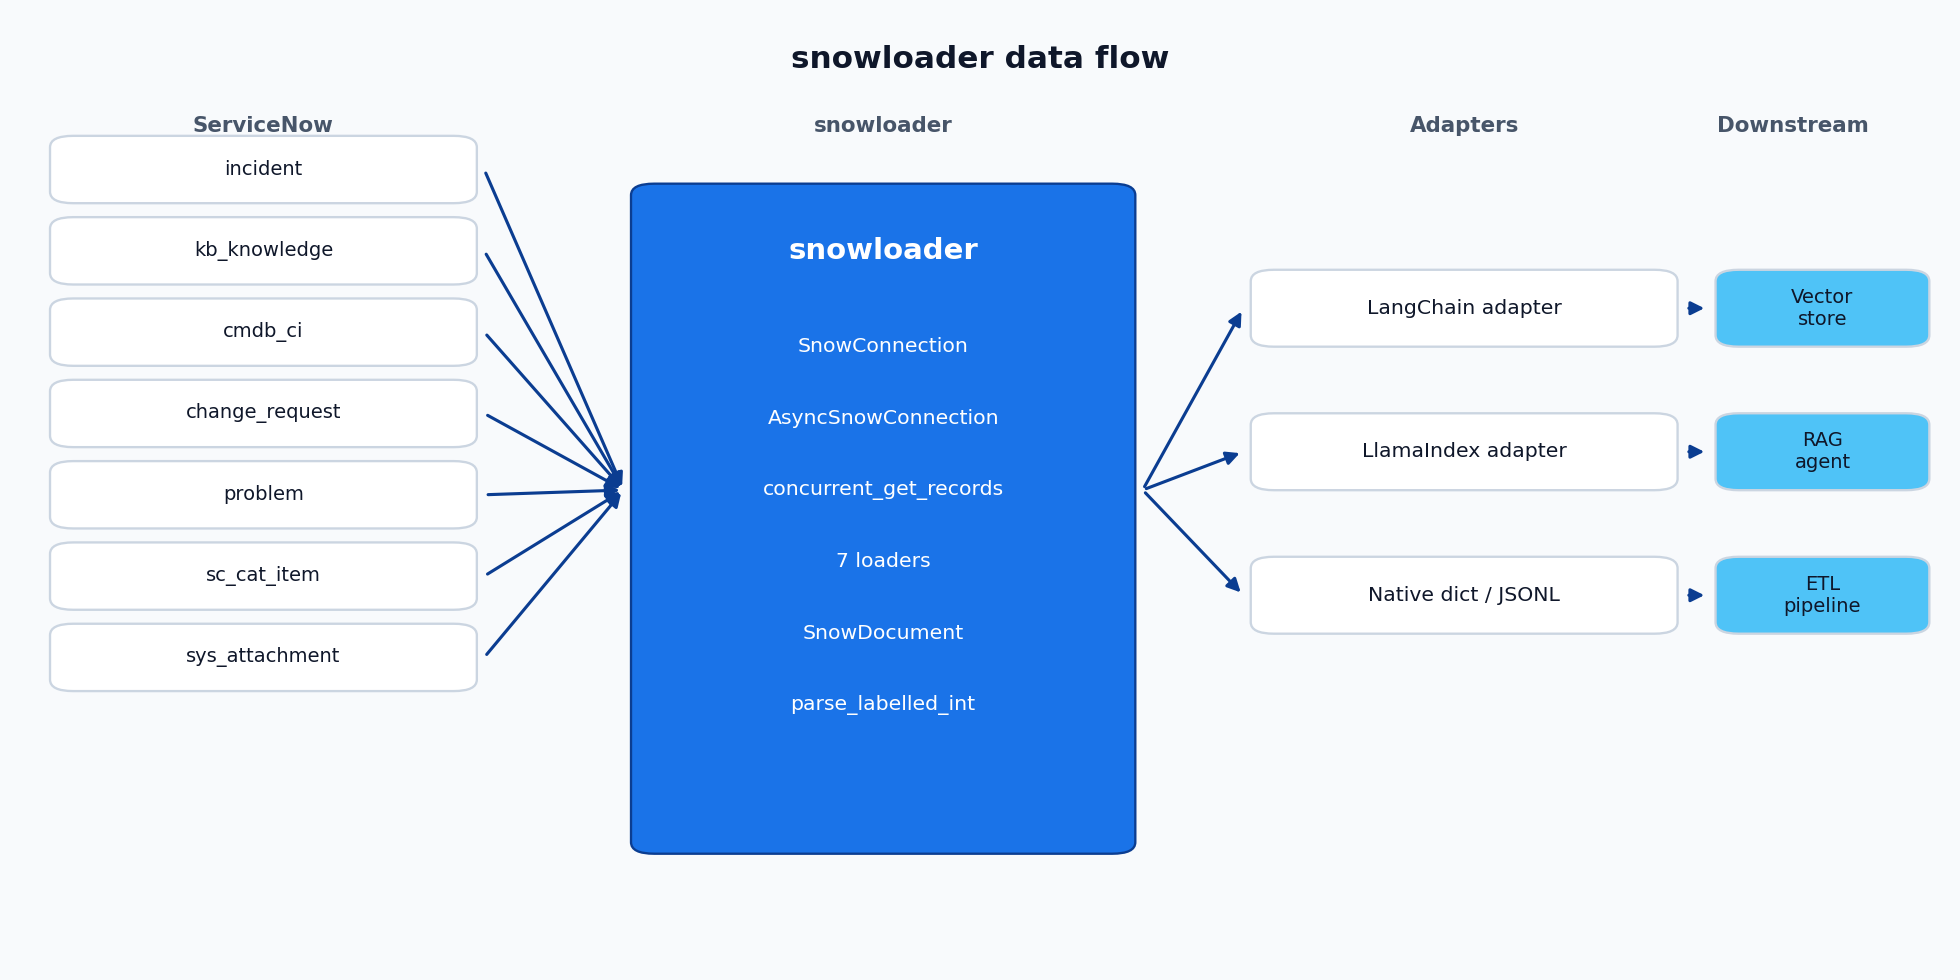
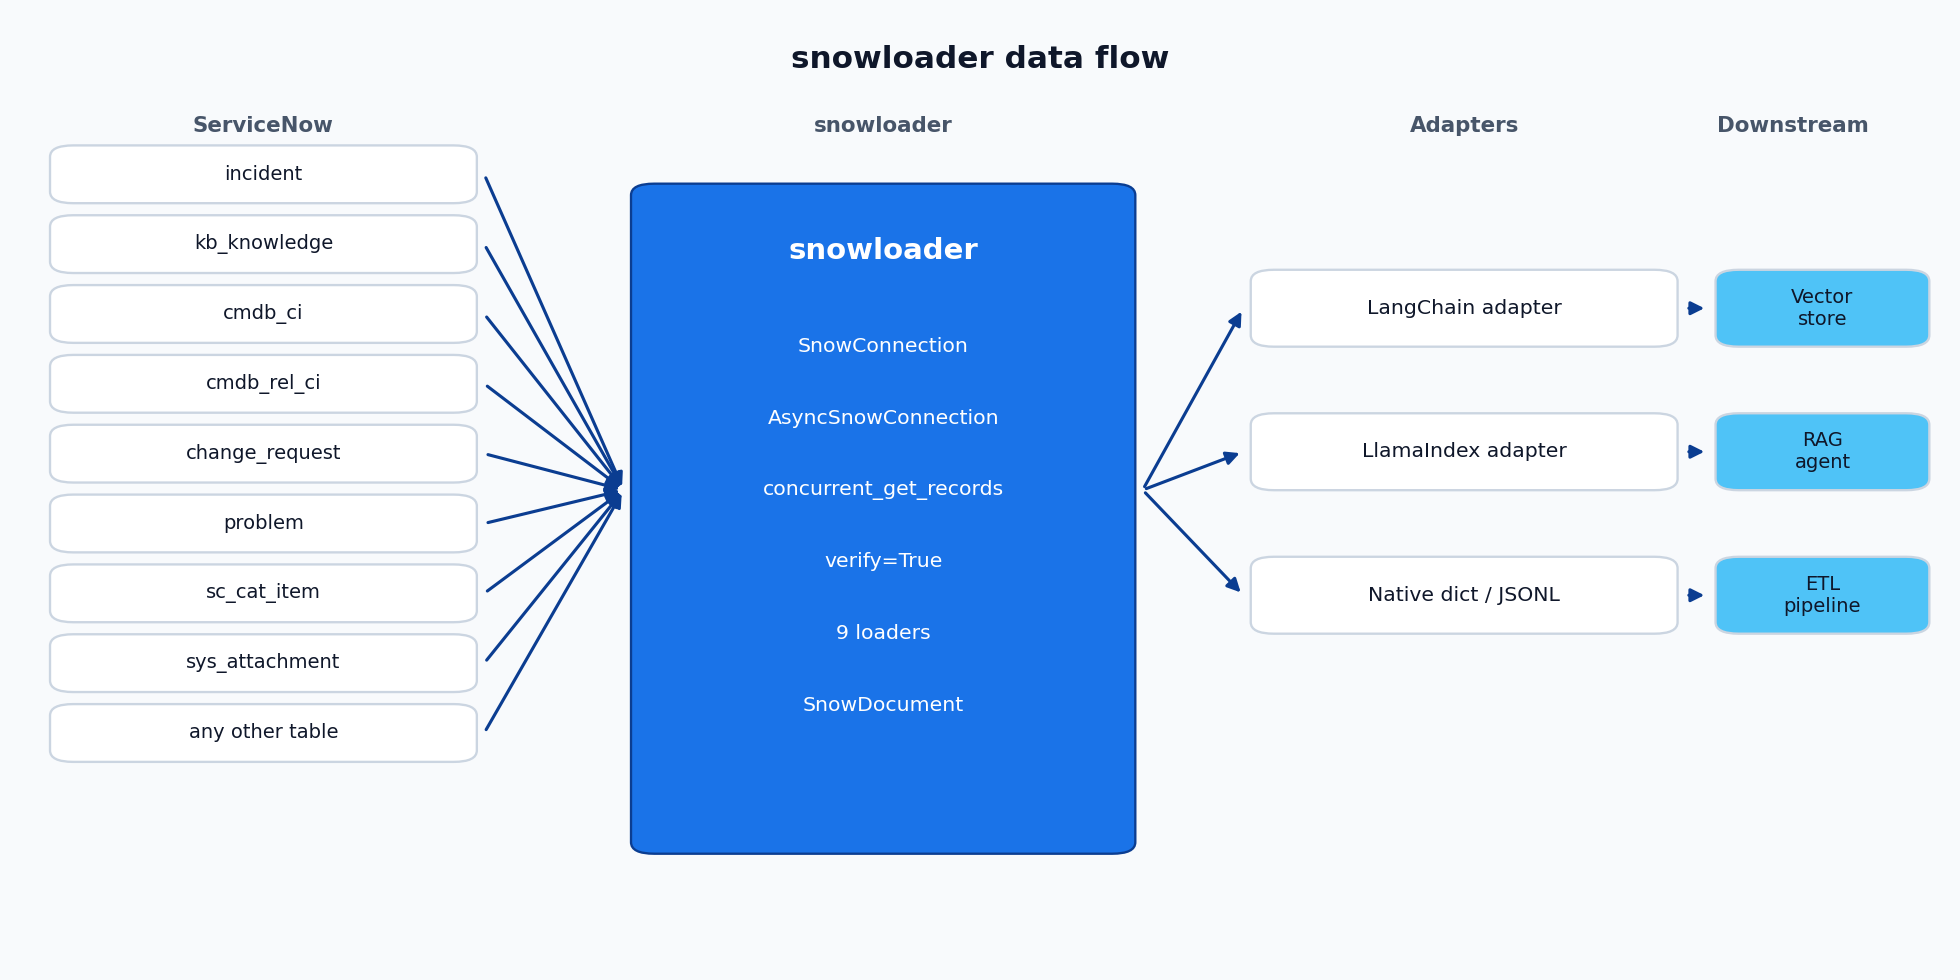
rebuild the diagrams around 0.3.0 and drop the marketing words
The throughput chart was showing relative bars I had estimated. It now shows
the measured seconds from scripts/benchmark_v030.py: 46.4s sequential down to
6.4s at 16 workers, and 8.1s at 32, so the turnover after 16 is visible rather
than asserted. The architecture diagram still said seven loaders and had no
cmdb_rel_ci on it.

New diagram for the pagination bug, because it is the whole point of this
release and it is easier to see than to read. Two panels, the same eight rows
tied on one timestamp, paged four at a time. On the left the page boundary
falls inside the tie so A and B come back twice and G and H never arrive, with
the returned count still reconciling. On the right the chain ends in sys_id
and every row arrives once.

Put that diagram at the top of the README, where somebody deciding whether to
upgrade will actually see it, and again on the verification docs page.

Also took out wording that reads like a sales page rather than a description:
TL;DR, comprehensive, robustness, most powerful. Replaced each with what it
actually means.

diff --git a/scripts/build_assets.py b/scripts/build_assets.py
@@ -122,15 +122,17 @@ def build_architecture() -> None:
         "incident",
         "kb_knowledge",
         "cmdb_ci",
+        "cmdb_rel_ci",
         "change_request",
         "problem",
         "sc_cat_item",
         "sys_attachment",
+        "any other table",
     ]
     col1_x = 2
     col1_w = 22
-    table_h = 7.0
-    table_gap = 1.5
+    table_h = 6.0
+    table_gap = 1.3
     col1_top = 80
     for i, label in enumerate(table_labels):
         y = col1_top - i * (table_h + table_gap)
@@ -167,9 +169,9 @@ def build_architecture() -> None:
         "SnowConnection",
         "AsyncSnowConnection",
         "concurrent_get_records",
-        "7 loaders",
+        "verify=True",
+        "9 loaders",
         "SnowDocument",
-        "parse_labelled_int",
     ]
     line_top = col2_y + col2_h - 17
     line_step = 7.5
@@ -228,51 +230,63 @@ def build_architecture() -> None:
 
 
 def build_performance() -> None:
-    fig, ax = plt.subplots(figsize=(10, 4.4), dpi=140)
+    """Threaded worker scaling, from scripts/benchmark_v030.py on a live instance."""
+    fig, ax = plt.subplots(figsize=(10, 4.6), dpi=140)
     fig.patch.set_facecolor(COLOR_BG)
     ax.set_facecolor(COLOR_BG)
 
-    paths = ["Sequential\nget_records", "Async\naget_records", "Threaded\nconcurrent_get_records"]
-    # Relative throughput, no absolute numbers
-    relative = [1.0, 6.0, 7.0]
-    colors = [COLOR_MUTED, COLOR_ACCENT, COLOR_PRIMARY]
+    labels = ["sequential", "4 workers", "8 workers", "16 workers", "32 workers"]
+    seconds = [46.4, 14.6, 8.2, 6.4, 8.1]
+    speedup = [46.4 / s for s in seconds]
+    colors = [COLOR_MUTED, COLOR_ACCENT, COLOR_ACCENT, COLOR_PRIMARY, COLOR_ACCENT]
 
-    bars = ax.barh(paths, relative, color=colors, edgecolor=COLOR_BORDER, linewidth=0.8)
-    for bar, value in zip(bars, relative):
+    bars = ax.bar(labels, seconds, color=colors, edgecolor=COLOR_BORDER, linewidth=0.8, width=0.62)
+    for bar, sec, mult in zip(bars, seconds, speedup, strict=True):
         ax.text(
-            bar.get_width() + 0.12,
-            bar.get_y() + bar.get_height() / 2,
-            f"{value:g}x",
-            va="center",
-            ha="left",
-            fontsize=12,
+            bar.get_x() + bar.get_width() / 2,
+            bar.get_height() + 1.2,
+            f"{sec}s\n{mult:.1f}x",
+            ha="center",
+            va="bottom",
+            fontsize=10.5,
             color=COLOR_TEXT,
             family=FONT_FAMILY,
             weight="bold",
         )
 
+    ax.annotate(
+        "peak, and the default",
+        xy=(3, 6.4),
+        xytext=(2.55, 30),
+        ha="center",
+        fontsize=10,
+        color=COLOR_DEEP,
+        family=FONT_FAMILY,
+        weight="bold",
+        arrowprops={"arrowstyle": "->", "color": COLOR_DEEP, "linewidth": 1.4},
+    )
+
     ax.set_title(
-        "Relative throughput on a typical instance",
+        "Threaded sweep of 2,919 records, measured on a developer instance",
         fontsize=13,
         color=COLOR_TEXT,
         family=FONT_FAMILY,
         weight="bold",
         pad=14,
     )
-    ax.set_xlabel("Records per second relative to sequential baseline", color=COLOR_MUTED, family=FONT_FAMILY, fontsize=10)
-    ax.tick_params(colors=COLOR_MUTED, labelsize=10)
+    ax.set_ylabel("seconds, lower is better", color=COLOR_MUTED, family=FONT_FAMILY, fontsize=10)
+    ax.tick_params(colors=COLOR_MUTED, labelsize=10.5)
     for spine_name in ("top", "right"):
         ax.spines[spine_name].set_visible(False)
     for spine_name in ("left", "bottom"):
         ax.spines[spine_name].set_color(COLOR_BORDER)
-    ax.set_xlim(0, max(relative) + 1.4)
-    ax.invert_yaxis()
-    ax.grid(axis="x", color=COLOR_BORDER, linestyle="--", alpha=0.4)
+    ax.set_ylim(0, 56)
+    ax.grid(axis="y", color=COLOR_BORDER, linestyle="--", alpha=0.4)
 
     ax.text(
         0.99,
-        -0.22,
-        "Exact ratios depend on instance size, network distance, page size, and query cost.",
+        -0.20,
+        "Throughput turns over after 16 workers. Reproduce with scripts/benchmark_v030.py.",
         transform=ax.transAxes,
         ha="right",
         va="top",
@@ -284,6 +298,80 @@ def build_performance() -> None:
 
     fig.tight_layout(pad=1.2)
     fig.savefig(OUT_DIR / "performance.png", facecolor=fig.get_facecolor(), bbox_inches="tight")
+    plt.close(fig)
+
+
+def build_pagination() -> None:
+    """Why offset paging over a non-unique sort column loses rows, and the fix."""
+    fig, axes = plt.subplots(1, 2, figsize=(12, 5.2), dpi=140)
+    fig.patch.set_facecolor(COLOR_BG)
+
+    # Eight rows that all share one sys_created_on value, paged 4 at a time.
+    # Left: the server is free to reorder inside the tie, so page 2 re-serves
+    # rows page 1 already gave us and never serves C and D.
+    before_page1 = ["A", "B", "C", "D"]
+    before_page2 = ["A", "B", "E", "F"]
+    after_page1 = ["A", "B", "C", "D"]
+    after_page2 = ["E", "F", "G", "H"]
+
+    panels = [
+        (axes[0], "Before 0.3.0", "ORDERBYsys_created_on", before_page1, before_page2,
+         {"A", "B"}, "G and H never arrive. A and B arrive twice."),
+        (axes[1], "0.3.0", "ORDERBYsys_created_on^ORDERBYsys_id", after_page1, after_page2,
+         set(), "Every row exactly once."),
+    ]
+
+    for ax, title, query, page1, page2, dup, caption in panels:
+        ax.set_facecolor(COLOR_BG)
+        ax.set_xlim(0, 10)
+        ax.set_ylim(0, 10)
+        ax.axis("off")
+
+        ax.text(5, 9.6, title, ha="center", va="center", fontsize=14,
+                color=COLOR_TEXT, family=FONT_FAMILY, weight="bold")
+        ax.text(5, 8.85, query, ha="center", va="center", fontsize=9.5,
+                color=COLOR_MUTED, family="DejaVu Sans Mono")
+
+        for row_i, (label, rows) in enumerate((("page 1", page1), ("page 2", page2))):
+            y = 7.2 - row_i * 3.1
+            ax.text(0.4, y + 0.92, label, ha="left", va="center", fontsize=10.5,
+                    color=COLOR_MUTED, family=FONT_FAMILY, weight="bold")
+            for col_i, cell in enumerate(rows):
+                x = 0.4 + col_i * 2.25
+                is_dup = row_i == 1 and cell in dup
+                face = "#fde2e1" if is_dup else COLOR_CARD
+                edge = "#d93025" if is_dup else COLOR_BORDER
+                ax.add_patch(FancyBboxPatch(
+                    (x, y - 0.55), 2.0, 1.05,
+                    boxstyle="round,pad=0.02,rounding_size=0.12",
+                    facecolor=face, edgecolor=edge, linewidth=1.6 if is_dup else 1.0))
+                ax.text(x + 1.0, y - 0.02, cell, ha="center", va="center", fontsize=13,
+                        color="#d93025" if is_dup else COLOR_TEXT,
+                        family=FONT_FAMILY, weight="bold")
+                if is_dup:
+                    ax.text(x + 1.0, y - 0.95, "duplicate", ha="center", va="center",
+                            fontsize=8.5, color="#d93025", family=FONT_FAMILY, weight="bold")
+
+        ok = not dup
+        ax.add_patch(FancyBboxPatch(
+            (0.4, 0.55), 9.0, 1.5,
+            boxstyle="round,pad=0.02,rounding_size=0.14",
+            facecolor="#e6f4ea" if ok else "#fdeceb",
+            edgecolor=COLOR_SUCCESS if ok else "#d93025", linewidth=1.4))
+        ax.text(4.9, 1.55, caption, ha="center", va="center", fontsize=10.5,
+                color=COLOR_SUCCESS if ok else "#d93025",
+                family=FONT_FAMILY, weight="bold")
+        ax.text(4.9, 0.98,
+                "returned 2919, distinct 2919" if ok else
+                "returned 2919, distinct 2915, and the count still reconciles",
+                ha="center", va="center", fontsize=9.5, color=COLOR_MUTED,
+                family="DejaVu Sans Mono")
+
+    fig.suptitle(
+        "Offset pagination is only safe over a unique sort key",
+        fontsize=15, color=COLOR_TEXT, family=FONT_FAMILY, weight="bold", y=0.99)
+    fig.tight_layout(rect=(0, 0, 1, 0.95))
+    fig.savefig(OUT_DIR / "pagination.png", facecolor=fig.get_facecolor(), bbox_inches="tight")
     plt.close(fig)
 
 
@@ -350,6 +438,7 @@ def build_decision() -> None:
 def main() -> None:
     build_architecture()
     build_performance()
+    build_pagination()
     build_decision()
     print("Wrote:")
     for name in ("architecture.png", "performance.png", "decision.png"):

diff --git a/README.md b/README.md
@@ -45,7 +45,7 @@
 
 ---
 
-## TL;DR
+## In three lines
 
 ```python
 from snowloader import SnowConnection, IncidentLoader
@@ -55,7 +55,27 @@ with SnowConnection(instance_url="https://yourcompany.service-now.com",
     docs = IncidentLoader(connection=conn, query="active=true").load()
 ```
 
-Three lines from a ServiceNow instance to a list of documents your vector store understands. Same loader objects work with LangChain, LlamaIndex, or anything else that accepts a list of dicts.
+Three lines from a ServiceNow instance to a list of documents your vector store understands. The same loader objects work with LangChain, LlamaIndex, or anything else that accepts a list of dicts.
+
+---
+
+## What 0.3.0 fixes
+
+<p align="center">
+  <img src="https://raw.githubusercontent.com/ronidas39/snowloader/main/docs/_static/pagination.png" alt="Offset pagination over a non-unique sort column returns some rows twice and skips others" width="960">
+</p>
+
+ServiceNow does not guarantee a stable row order inside a group of rows that tie on the sort column. Every release before 0.3.0 paged over `sys_created_on`, which is not unique, so a page boundary landing inside a tied group returned some rows twice and skipped others.
+
+The returned count still matched, so nothing reported a problem. The loss was identical on every run, so re-running never revealed it. Measured on a developer instance where `cmdb_ci` holds 2,919 rows across only 818 distinct timestamps, three consecutive sweeps each returned 2,919 rows and only 2,915 of them were distinct.
+
+Every ORDERBY chain now ends in `sys_id`, and you can ask a sweep to prove it was complete:
+
+```python
+records = list(conn.get_records("cmdb_ci", verify=True))   # raises if anything is missing
+```
+
+Details in [the upgrade notes](#upgrading-to-030).
 
 ---
 
@@ -227,11 +247,15 @@ doc.metadata["priority_value"]           # '5'
   <img src="https://raw.githubusercontent.com/ronidas39/snowloader/main/docs/_static/decision.png" alt="API decision tree" width="850">
 </p>
 
-Three concurrency models, three jobs:
+Three concurrency models, three jobs. The numbers below came out of a run against a developer instance, not an estimate. Reproduce them on your own instance with `scripts/benchmark_v030.py`.
 
 <p align="center">
-  <img src="https://raw.githubusercontent.com/ronidas39/snowloader/main/docs/_static/performance.png" alt="Relative throughput" width="850">
+  <img src="https://raw.githubusercontent.com/ronidas39/snowloader/main/docs/_static/performance.png" alt="Threaded sweep timings by worker count" width="900">
 </p>
+
+Two things worth taking from that chart. Throughput peaks at 16 workers, which is why 16 is the default, and 32 workers came out slower than 16 rather than marginally faster. Page size in the low hundreds measured best on this path; raising it does not buy speed here, because throughput is bounded by how many pages are in flight rather than by request count.
+
+The async path pulls the other way and wants larger pages, which is why its default is 500. Do not carry a page size from one path to the other.
 
 The threaded path uses a per-thread `requests.Session`, which keeps connection pools and TLS state isolated per worker and avoids the connection-reuse failures some ServiceNow front ends exhibit when many concurrent requests share one session.
 

diff --git a/docs/roadmap.rst b/docs/roadmap.rst
@@ -48,8 +48,8 @@ by four duplicates, the same four every run.
 v0.2 - Async, Attachments, Threaded Sync (Shipped 2026-04-28)
 --------------------------------------------------------------
 
-The v0.2 series shipped three big features and a series of robustness
-patches driven by real-world extractions. See :doc:`async`,
+The v0.2 series shipped three large features and a series of reliability
+fixes driven by real extractions. See :doc:`async`,
 :doc:`attachments`, and :doc:`concurrent` for usage details.
 
 **Headline features:**
@@ -65,7 +65,7 @@ patches driven by real-world extractions. See :doc:`async`,
   threaded sync extractions with per-thread ``requests.Session`` instances
   (matches the throughput of the async path, no ``aiohttp`` dependency)
 
-**Robustness improvements (across 0.2.1 through 0.2.5):**
+**Reliability fixes (across 0.2.1 through 0.2.5):**
 
 - HTTP 500 added to the default retryable status set on both sync and
   async paths (ServiceNow 500s are typically transient overload)

diff --git a/docs/verification.rst b/docs/verification.rst
@@ -20,6 +20,13 @@ column, so a page boundary landing inside a tied group can return some rows
 twice and skip others.
 
 Every release before 0.3.0 sorted on ``sys_created_on``, which is not unique.
+
+.. image:: _static/pagination.png
+   :alt: A page boundary inside a group of rows that tie on the sort column
+         returns some rows twice and skips others
+   :align: center
+   :width: 100%
+
 On a developer instance, ``cmdb_ci`` holds 2,919 rows spread across only 818
 distinct ``sys_created_on`` values, and 31 rows share the single worst
 timestamp. Three consecutive sweeps of that table:

diff --git a/docs/loaders.rst b/docs/loaders.rst
@@ -70,9 +70,10 @@ dependency). Falls back to the ``wiki`` field when ``text`` is empty.
 CMDBLoader
 ----------
 
-Loads Configuration Items from any CMDB class table. The most powerful
-loader - it can optionally traverse the relationship graph to show how
-CIs depend on each other.
+Loads Configuration Items from any CMDB class table. It can optionally
+traverse the relationship graph to show how CIs depend on each other, though
+for more than a handful of CIs :class:`~snowloader.RelationshipLoader` is the
+better tool. See below.
 
 .. code-block:: python
 

diff --git a/docs/index.rst b/docs/index.rst
@@ -14,7 +14,7 @@ snowloader
 .. |license| image:: https://img.shields.io/badge/License-MIT-blue.svg
    :target: https://opensource.org/licenses/MIT
 
-**Comprehensive ServiceNow data loader for AI/LLM pipelines.**
+**ServiceNow data loader for AI and LLM pipelines.**
 
 snowloader pulls data from ServiceNow - Incidents, Knowledge Base, CMDB,
 Changes, Problems, and Service Catalog - and converts it into document
